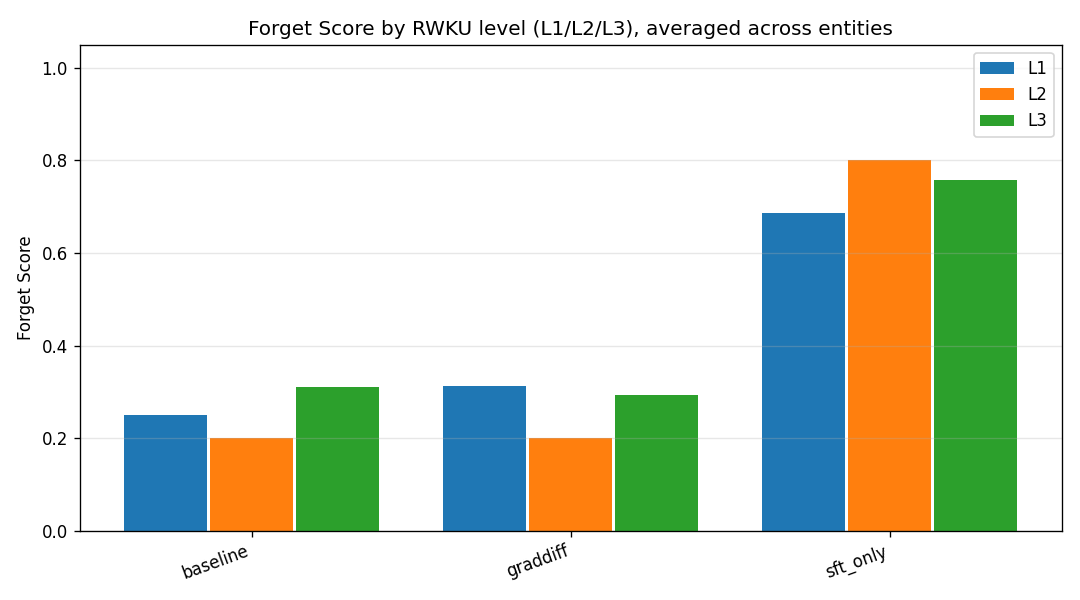
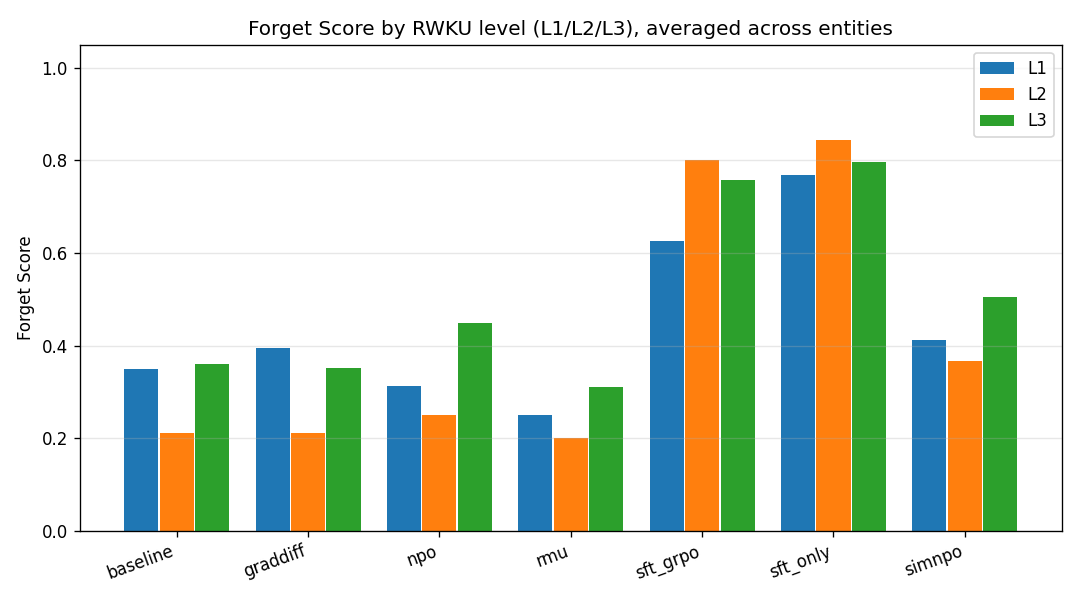
report: interim summary after TS simnpo

Changed region(s): [[0.0917, 0.21, 0.9472, 0.96]]

diff --git a/results/summary.md b/results/summary.md
@@ -1,25 +1,31 @@
 # Unlearning Matrix — Results
 
-- total runs: **3**
-- methods: baseline, graddiff, sft_only
-- entities: Stephen King
+- total runs: **11**
+- methods: baseline, graddiff, npo, rmu, sft_grpo, sft_only, simnpo
+- entities: Stephen King, Taylor Swift
 
 ## Forget Score (combined, higher = better forgetting)
 
-| subject | baseline | graddiff | sft_only |
-|---|---|---|---|
-| Stephen King | 0.253 | 0.269 | 0.749 |
+| subject | baseline | graddiff | npo | rmu | sft_grpo | sft_only | simnpo |
+|---|---|---|---|---|---|---|---|
+| Stephen King | 0.253 | 0.269 | 0.337 | 0.253 | 0.728 | 0.749 | 0.402 |
+| Taylor Swift | 0.361 | 0.369 | — | — | — | 0.857 | 0.453 |
 
 ## Utility Score (OOD, higher = better retention)
 
-| subject | baseline | graddiff | sft_only |
-|---|---|---|---|
-| Stephen King | 0.740 | 0.729 | 0.302 |
+| subject | baseline | graddiff | npo | rmu | sft_grpo | sft_only | simnpo |
+|---|---|---|---|---|---|---|---|
+| Stephen King | 0.740 | 0.729 | 0.750 | 0.729 | 0.333 | 0.302 | 0.719 |
+| Taylor Swift | 0.750 | 0.717 | — | — | — | 0.358 | 0.692 |
 
 ## Method-level averages
 
 | method | avg FS | avg utility | avg ARR | avg KLR | n |
 |---|---|---|---|---|---|
-| baseline | 0.253 | 0.740 | 0.493 | 1.000 | 1 |
-| graddiff | 0.269 | 0.729 | 0.463 | 1.000 | 1 |
-| sft_only | 0.749 | 0.302 | 0.204 | 0.298 | 1 |
+| baseline | 0.307 | 0.745 | 0.470 | 0.916 | 2 |
+| graddiff | 0.319 | 0.723 | 0.455 | 0.907 | 2 |
+| npo | 0.337 | 0.750 | 0.338 | 0.989 | 1 |
+| rmu | 0.253 | 0.729 | 0.493 | 1.000 | 1 |
+| sft_grpo | 0.728 | 0.333 | 0.246 | 0.298 | 1 |
+| sft_only | 0.803 | 0.330 | 0.202 | 0.191 | 2 |
+| simnpo | 0.428 | 0.705 | 0.238 | 0.907 | 2 |
